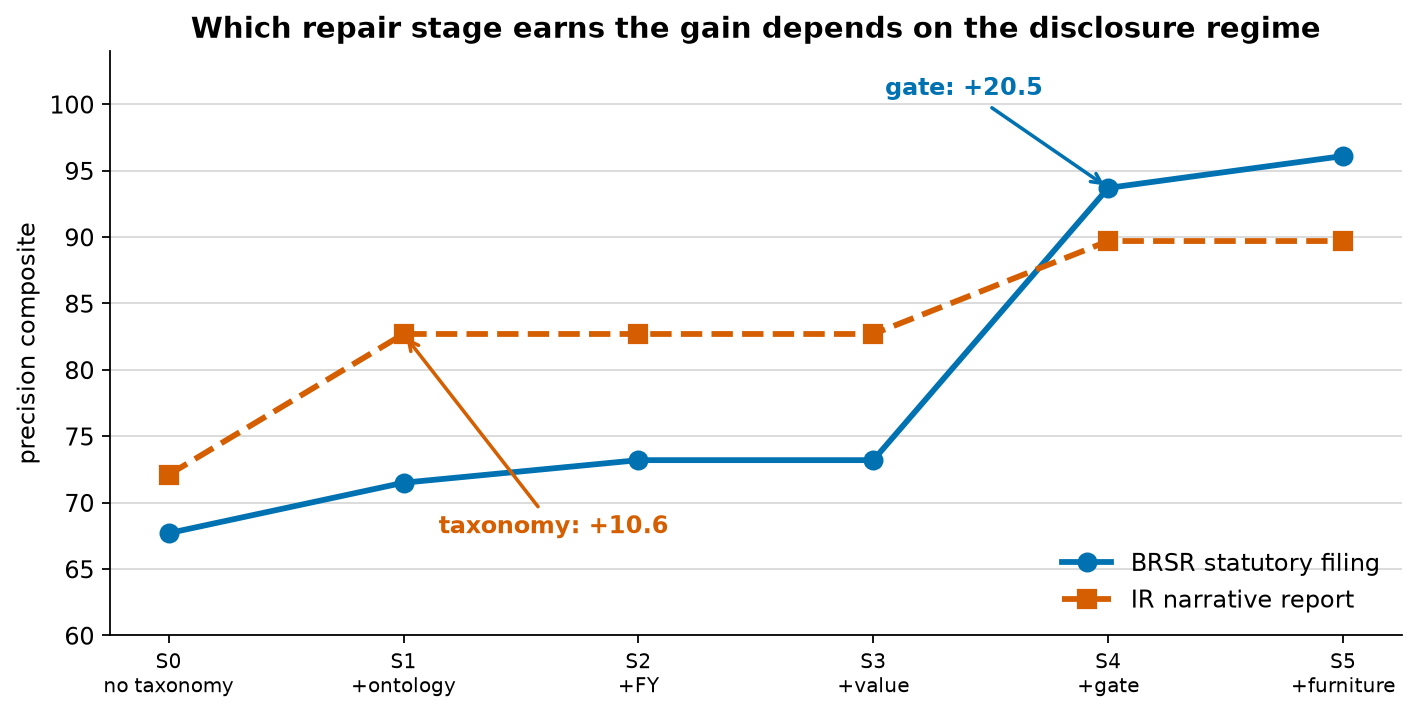
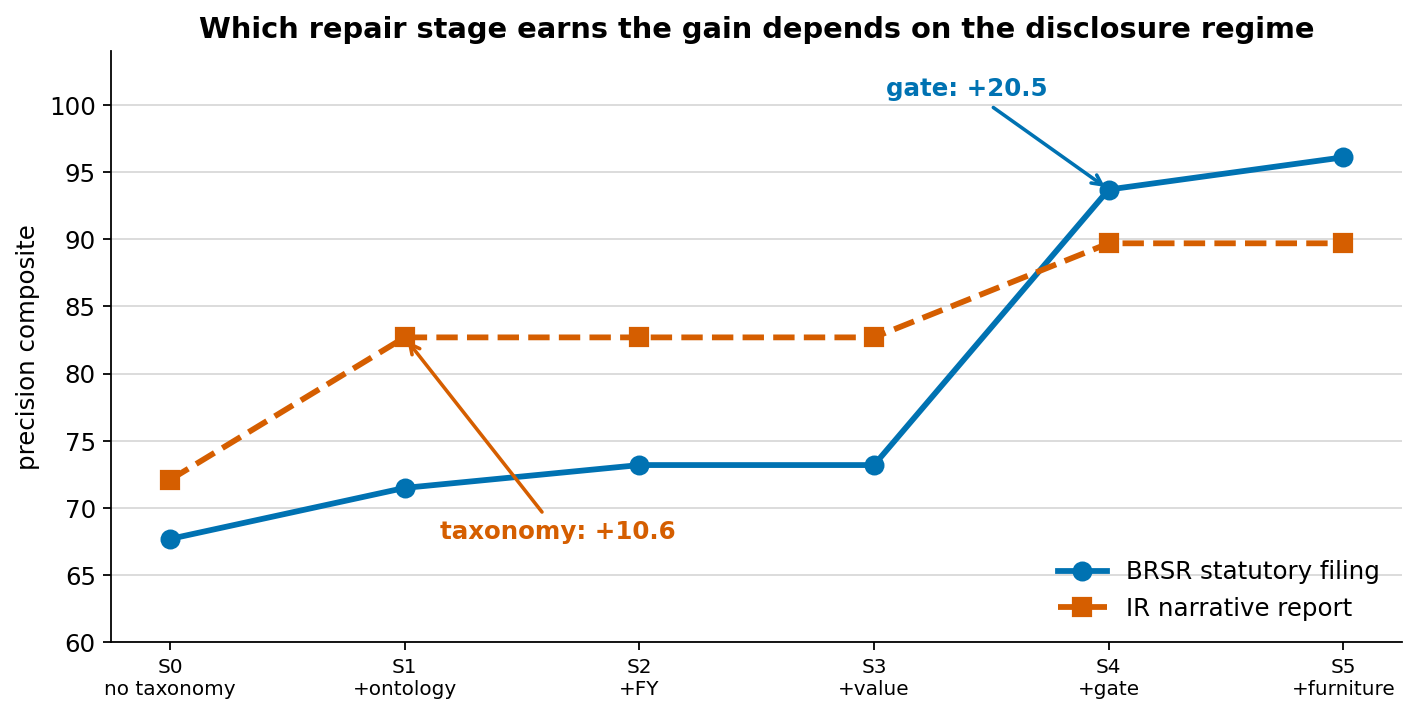
fix(figures): move the extractor-comparison legend off the bars
The legend sat inside the recall panel, on top of the BRSR bars. It now sits above both panels. README figures regenerated from the committed fixtures.

diff --git a/backend/scripts/make_readme_figures.py b/backend/scripts/make_readme_figures.py
@@ -229,10 +229,13 @@ def fig3():
         ax.set_ylim(0, 118); ax.set_yticks([0, 25, 50, 75, 100])
         ax.set_title(title); ax.grid(axis="y", **GRID); ax.set_axisbelow(True)
     a1.set_ylabel("%")
-    a1.legend(frameon=False, loc="lower left", fontsize=9.5)
+    # Legend above both panels: inside either axes it lands on a bar (they reach 97-100%).
+    handles, names = a1.get_legend_handles_labels()
+    fig.legend(handles, names, frameon=False, loc="upper center", ncol=2, fontsize=10,
+               bbox_to_anchor=(0.5, 0.965))
     fig.suptitle("Extractor choice dominates the tabular surface (identical input, page-matched)",
                  fontweight="bold", y=1.02)
-    fig.tight_layout()
+    fig.tight_layout(rect=(0, 0, 1, 0.90))
     _save(fig, "fig_readme_3_extractor")
 
 
